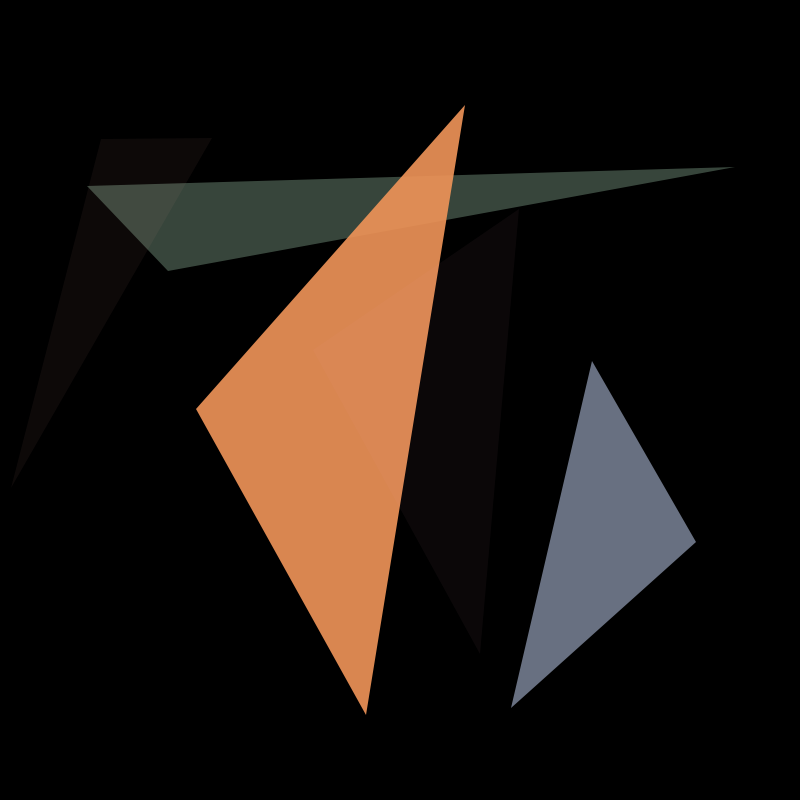
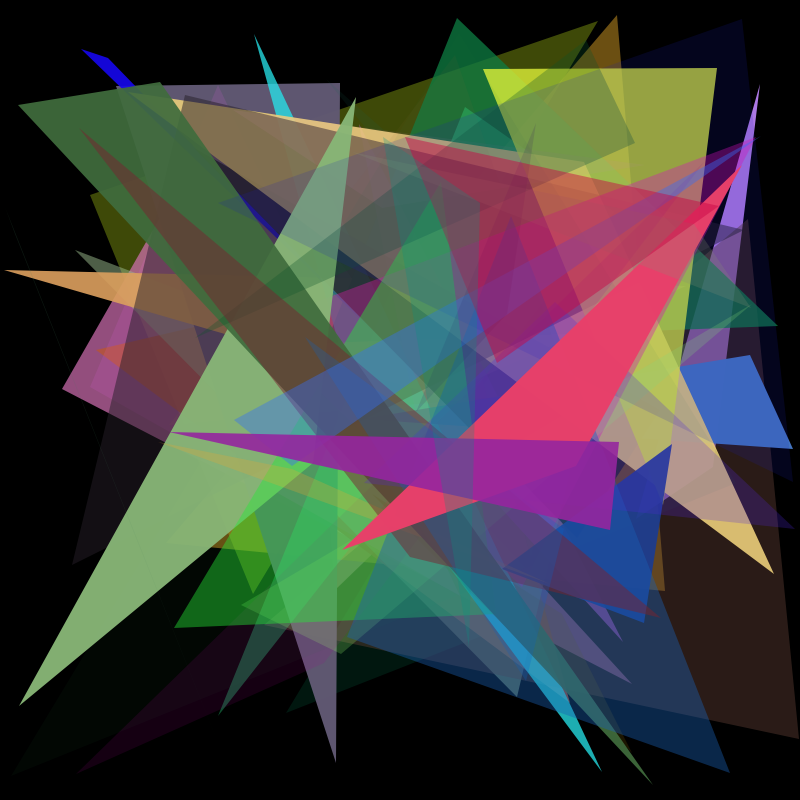
added mona lisa top solution image generation

diff --git a/MonaLisa.py b/MonaLisa.py
@@ -1,5 +1,5 @@
 import random
-from PIL import Image, ImageDraw
+from PIL import Image
 import numpy as np
 import matplotlib.pyplot as plt
 from matplotlib.patches import Polygon
@@ -16,6 +16,7 @@ class MonaLisa(Problem):
 
     def calculate_fitness(self, polygons):
         # Calculate the fitness of a chromosome for the Mona Lisa problem
+        self.plot_polygons(polygons)
         img = Image.open("gen_mona.png")
 
         # Convert the images to numpy arrays
@@ -64,7 +65,7 @@ class MonaLisa(Problem):
         return (new_chromosome, fitness)
 
     def random_chromosome(self):
-        num_polygons = 5
+        num_polygons = 50
         polygons = []
         for i in range(num_polygons):
             x = [random.randint(0, self.canvas_size[0]) for j in range(3)]
@@ -79,7 +80,7 @@ class MonaLisa(Problem):
         return (polygons, fitness)
 
 
-    def plot_polygons(self,polygons):
+    def plot_polygons(self,polygons,save_path=None):
         fig, ax = plt.subplots(figsize=(self.canvas_size[0]/100, self.canvas_size[1]/100), facecolor='black')  
         ax.set_xlim(0, self.canvas_size[0])
         ax.set_ylim(0, self.canvas_size[1])
@@ -110,7 +111,10 @@ class MonaLisa(Problem):
         img = img.resize(self.canvas_size)  # Resize the image to the desired size
         img_array = np.array(img)
 
-        save_path = os.path.join(os.getcwd(), "gen_mona.png")
+        if save_path is None:
+            save_path = os.path.join(os.getcwd(), "gen_mona.png")
+        else:
+            save_path = os.path.join(os.getcwd(), save_path)
 
         plt.savefig(save_path, bbox_inches='tight', pad_inches=0, facecolor=fig.get_facecolor(), transparent=True)
         # plt.show()

diff --git a/EA.py b/EA.py
@@ -50,6 +50,8 @@ class EA:
                 survivors = survivor_selection_function(s=True)
                 self.instance.population = survivors
                 top_solution_generation = min(self.instance.population, key=lambda x: x[1])
+                if j == self.instance.generations - 1:
+                    self.instance.plot_polygons(top_solution_generation[0], f'gen_top.png')
                 print("Generation: ", j + 1)
                 print("Top solution for this iteration: ", top_solution_generation[1])  # Print the fitness value
                 top_solution_iteration = min(top_solution_iteration, top_solution_generation[1])  # Store fitness value only

diff --git a/Problem.py b/Problem.py
@@ -85,11 +85,6 @@ class Problem():
             return parents
         if s:
             # Selects survivors using truncation selection
-            print("truncation")
-            print(len(self.population))
-            for i in self.population:
-                if i is None:
-                    print("None")
             survivors = sorted(self.population, key=lambda x: x[1])[:self.population_size]
             return survivors
 
